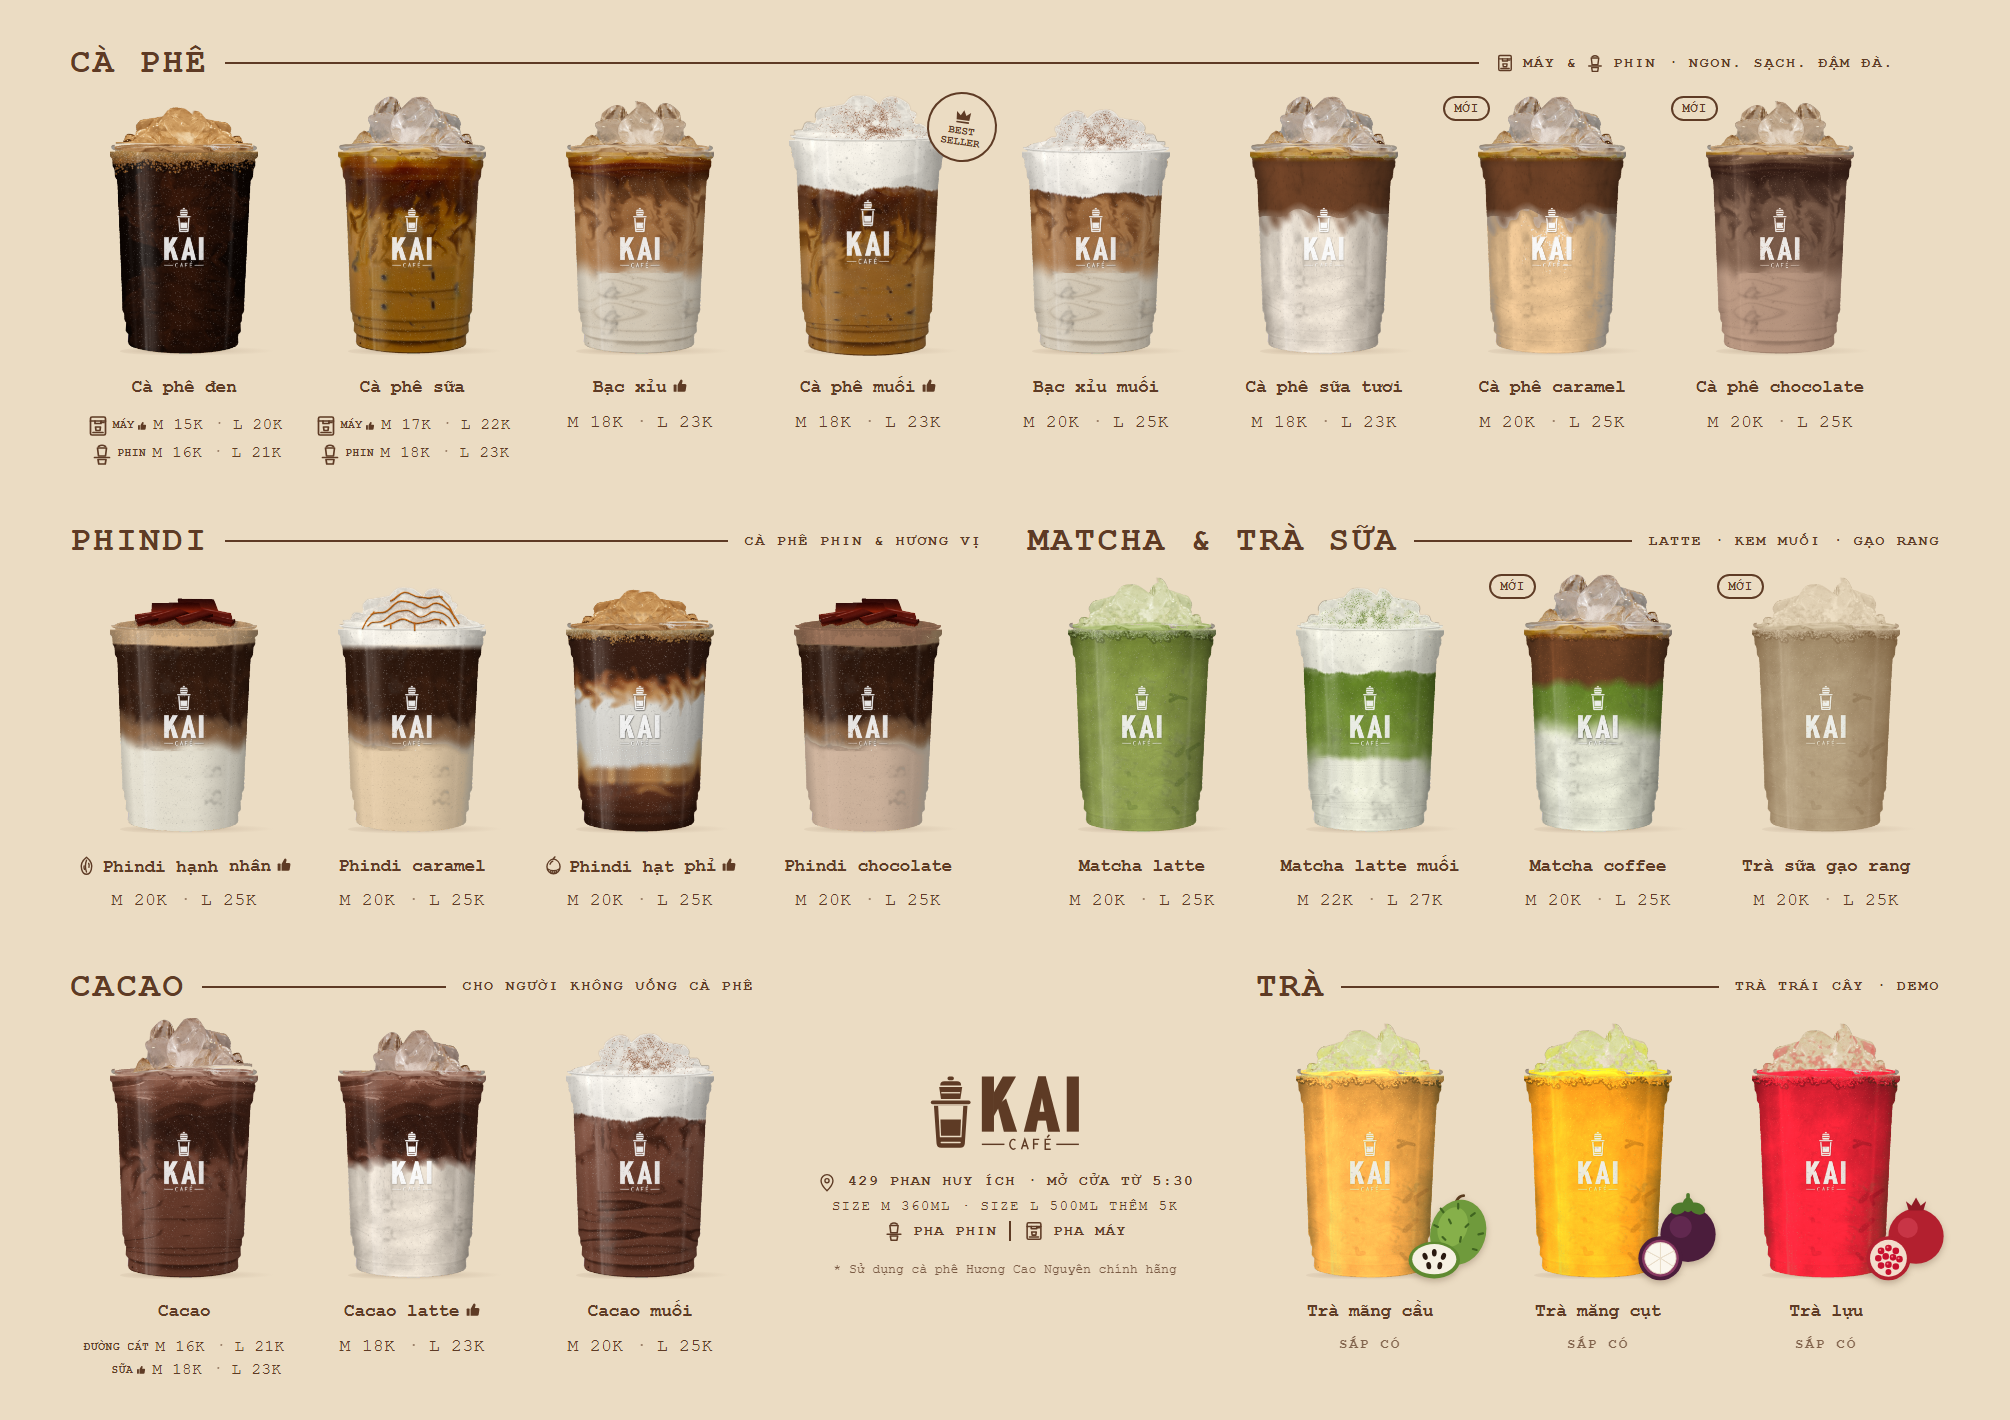
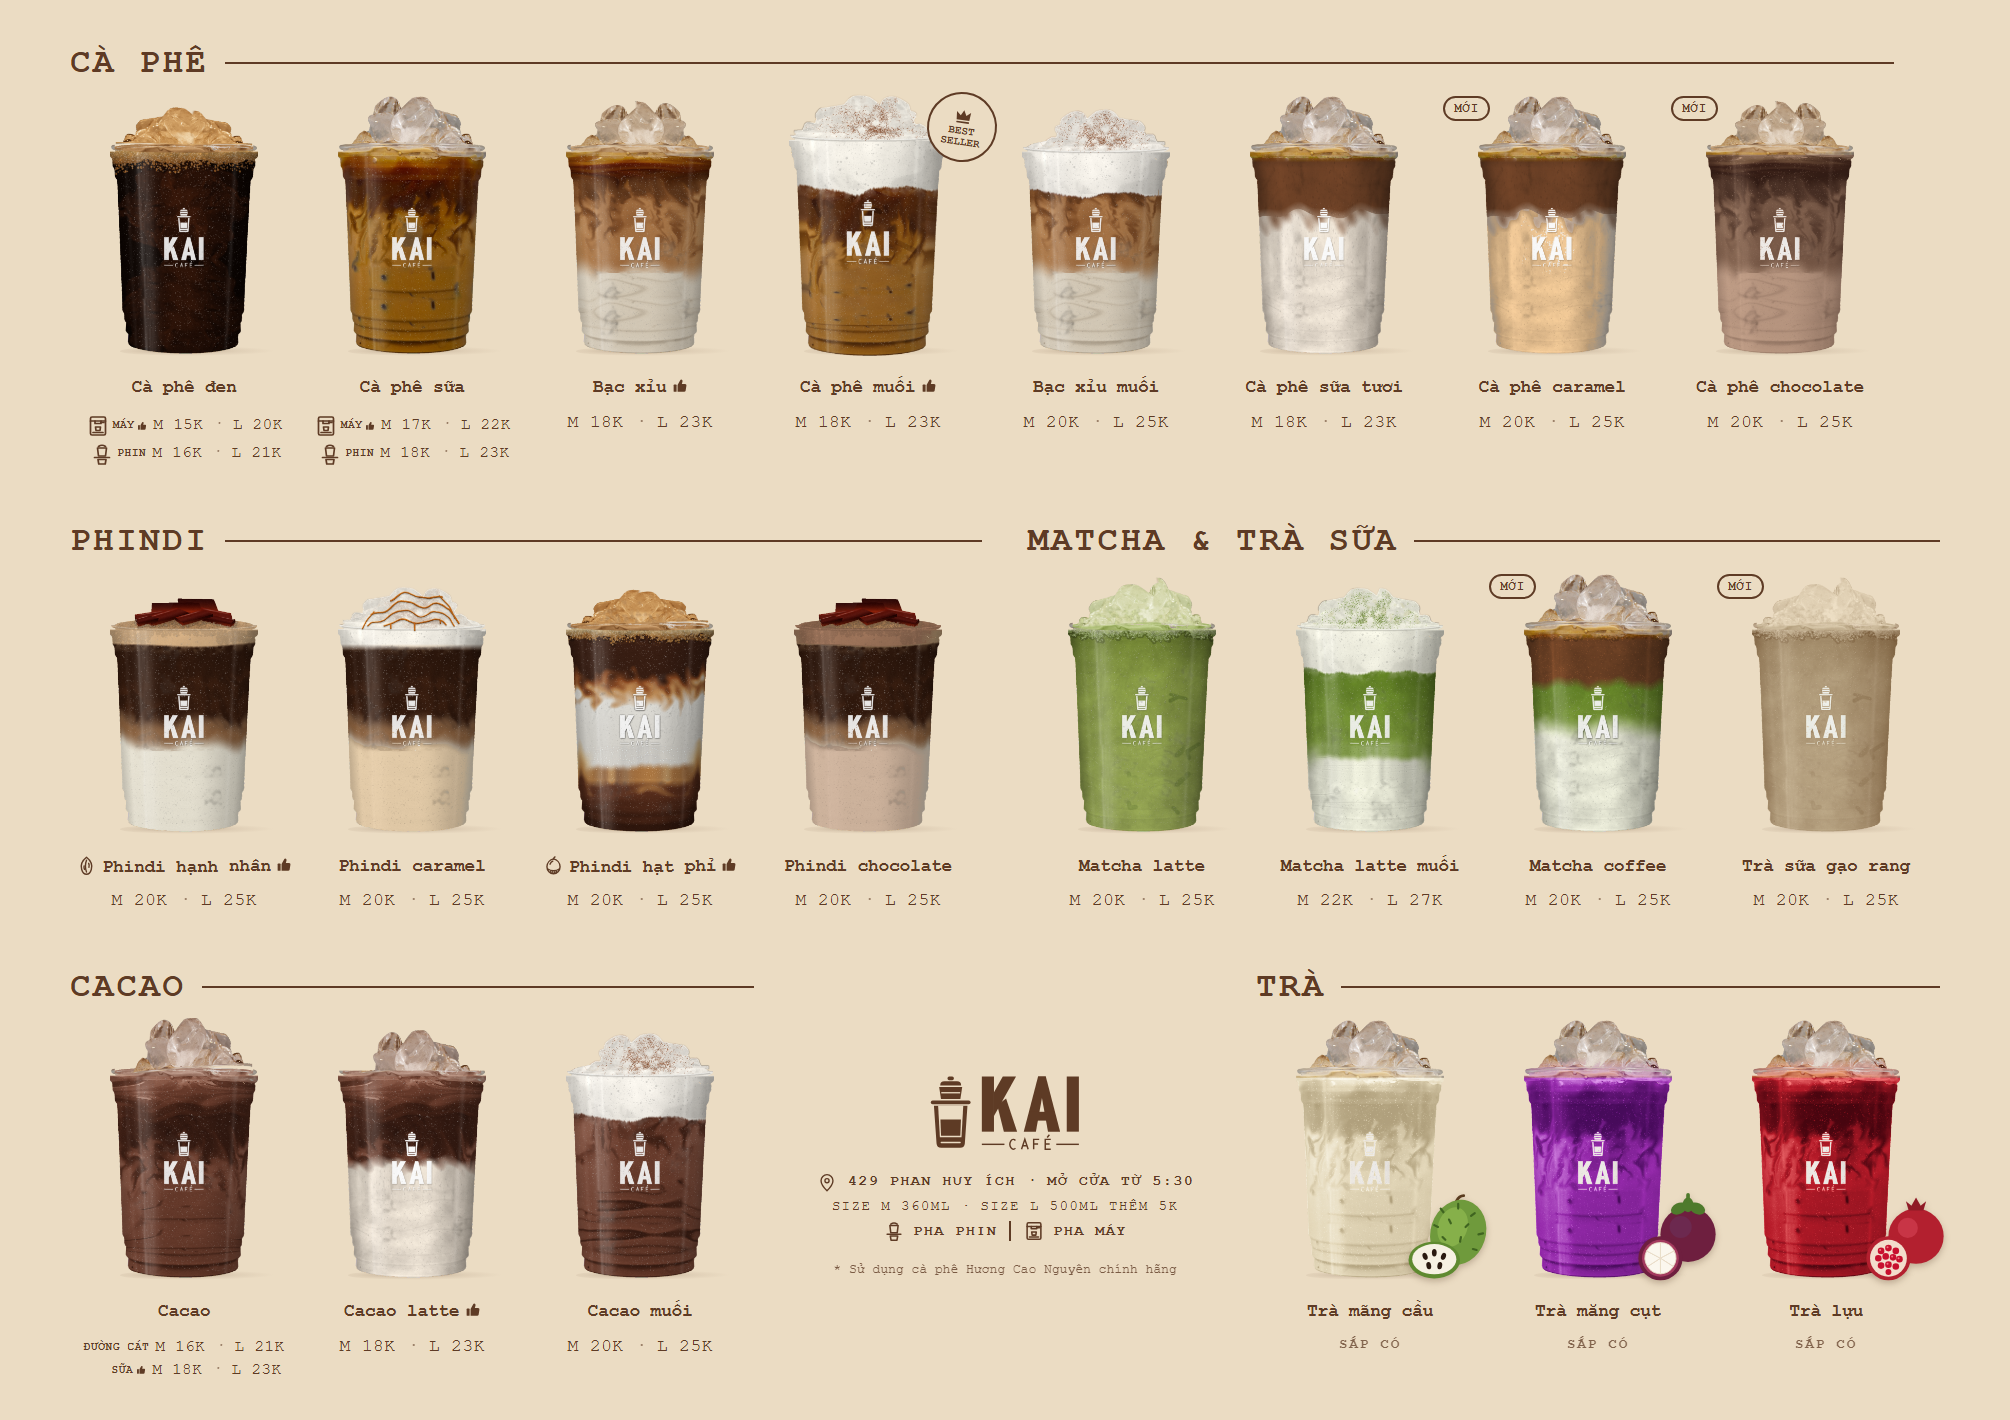
v1.7.321: menu clean bo chu phu, ly tra lam lai theo mau

diff --git a/index.html b/index.html
@@ -3880,7 +3880,7 @@ function renderPlan(){
 
 /* ============ render: KIỂM CHỨNG (định lượng · công thức · dữ liệu cần thêm · tự kiểm) ============
  * Nguyên tắc: (1) "Data sẵn sàng?" trước khi tin số, (2) chỉ kết luận khi đủ mẫu, (3) giả định và điểm mù hiện ra ở UI, (4) tự kiểm bất biến bằng code chạy trên chính data đang xem. */
-const BAN_DASH = 'v1.7.320';   // bump ĐỦ 3 chỗ: hằng này · dòng đầu CHANGELOG · (chip thanh bên và tiêu đề "Có gì mới" tự lấy từ đây); bất biến 19 kiểm điều này
+const BAN_DASH = 'v1.7.321';   // bump ĐỦ 3 chỗ: hằng này · dòng đầu CHANGELOG · (chip thanh bên và tiêu đề "Có gì mới" tự lấy từ đây); bất biến 19 kiểm điều này
 const KIEM_NL = {   // nguồn số đang dùng + độ tin cậy (1 ước tính · 2 Kai chốt · 3 có hoá đơn / ghi trên bao bì) + cách kiểm cho từng nguyên liệu (mã tab Kho)
   cf:{nguon:'Kai chốt 18g = 45ml, 1 kg ≈ 55 ly; giá 240.000 đ/kg (sổ chi ghi 0 đ vì được tặng 5kg → dùng giá tham chiếu)', tin:2, cach:'Cân 5 lần pha thực tế; sau 3 ngày gõ /kiemkho cf so với số ước tính'},
   cfb:{nguon:'Cà phê Phố Núi 1,5 kg · 375.000 đ – chưa có món nào dùng trong công thức', tin:1, cach:'Xác nhận món phin dùng cà phê hạt hay bột rồi điền cột cfb'},
@@ -3938,6 +3938,7 @@ const GLOSS_KAI = [   // định nghĩa & công thức mọi con số quan trọ
   ['Dự báo ngày mai', 'Chỉ lấy ngày cùng loại giá với ngày mai (giá thường / đồng giá 15K; chưa đủ 3 ngày thì bỏ ngày khai trương 10K) · TB các ngày cùng thứ gần nhất (≥ 2 ngày, thiếu thì TB 7 ngày) × hệ số khuyến mãi / mưa khi đủ dữ liệu', 'Đơn bot', 'Hiệu suất'],
 ];
 const CHANGELOG = [   // dòng đầu = bản hiện hành; mỗi bản nhiều ý ngắn · v1.7.176: chỉ giữ ~12 bản mới nhất ở đây, bản cũ hơn nằm ở changelog-cu.json (tải khi mở Kiểm chứng) — quá 20 bản thì chuyển bớt sang file đó (thêm vào ĐẦU mảng json)
+  {v:'v1.7.321', ngay:'22/11/2026', nd:['Tài liệu: Menu bản clean bỏ chữ phụ cạnh tiêu đề nhóm; 3 ly trà demo làm lại từ ly cà phê sữa máy (nước trong, có đá) theo ảnh mẫu — mãng cầu trắng kem, măng cụt tím, lựu đỏ']},
   {v:'v1.7.320', ngay:'22/11/2026', nd:['Tài liệu: Menu bản clean — 3 ly trà demo chỉnh màu theo ảnh mẫu (mãng cầu hổ phách, măng cụt vàng cam, lựu đỏ), thêm hình trái cây mãng cầu / măng cụt / lựu ở góc dưới ly']},
   {v:'v1.7.319', ngay:'22/11/2026', nd:['Tài liệu: Menu bản clean — đường kẻ tiêu đề nhóm nét liền, chữ phụ đậm hơn; dòng giá cà phê đen / sữa có lại chữ máy / phin cạnh icon']},
   {v:'v1.7.318', ngay:'22/11/2026', nd:['Tài liệu: Menu bản clean hàng cuối xếp Cacao │ logo (nhỏ lại) │ khối Trà sát lề phải, thẳng cột với Matcha']},
@@ -5081,7 +5082,7 @@ const TAI_LIEU = [
   {nhom:'Ảnh bìa', ten:'Tối giản · 640 × 700', mo:'Logo giữa, 3 ly, nền be · cỡ ảnh bìa Zalo 640 × 700 (vùng an toàn 640 × 340 ở giữa)', ngay:'08/11/2026', anh:'anh-bia_toi-gian_640x700.png', file:[['Tải ảnh 640 × 700', 'anh-bia_toi-gian_640x700.png']]},
   {nhom:'Ấn phẩm', ten:'Menu cầm tay', mo:'Bản đang dùng · 4 khối Cà phê · Cacao · Phindi · Matcha & trà sữa, có 4 món mới (bán từ 10/11), giá M │ L, nút like món bán chạy · 22/11: thêm icon máy / phin cạnh cà phê đen, sữa và icon hạnh nhân / hạt phỉ như standee, chân menu ghi “mở cửa từ 5:30” · chữ Courier New (PDF in đã chuyển thành hình) · A3 ngang 420 × 297 mm (chưa có lề tràn) · file PDF in: hỏi Marketing (không để trên dashboard)', ngay:'22/11/2026', anh:'menu-cam-tay-icon.png', file:[['Ảnh xem trước', 'menu-cam-tay-icon.png']]},
   {nhom:'Ấn phẩm', ten:'Menu cầm tay · ảnh từng món (nháp)', mo:'Bản 2 chờ chủ duyệt · toàn nền kem, mọi ly cùng cỡ · bố cục 8 · 8 · 3: trái Cà phê │ phải Phindi rồi Matcha & trà sữa │ hàng cuối Cacao + logo, địa chỉ · mỗi món một ảnh ly + nút giá M │ L như standee vòm · cà phê đen / sữa (máy, phin) và cacao (đường cát, sữa) chung một ảnh, mỗi kiểu một dòng giá · ghi “mở cửa từ 5:30” · A3 ngang 420 × 297 mm, chữ đã chuyển thành hình · file PDF in (16 MB): hỏi Marketing (không để trên dashboard)', ngay:'22/11/2026', anh:'menu-anh-tung-mon.png', file:[['Ảnh xem trước', 'menu-anh-tung-mon.png']]},
-  {nhom:'Ấn phẩm', ten:'Menu cầm tay · bản clean (nháp)', mo:'Chờ chủ duyệt · theo mẫu menu tablet: ly nhỏ cùng cỡ xếp thoáng, tiêu đề nhóm nhỏ + đường kẻ liền, giá chữ trơn M · L (không nút) · nền kem như menu cầm tay · 3 hàng: Cà phê (8) │ Phindi + Matcha & trà sữa (8) │ Cacao · logo, địa chỉ · Trà sát phải (demo: mãng cầu, măng cụt, lựu — ảnh đổi màu, chưa giá) · A3 ngang 420 × 297 mm, chữ đã chuyển thành hình · file PDF in (16 MB): hỏi Marketing (không để trên dashboard)', ngay:'22/11/2026', anh:'menu-clean.png', file:[['Ảnh xem trước', 'menu-clean.png']]},
+  {nhom:'Ấn phẩm', ten:'Menu cầm tay · bản clean (nháp)', mo:'Chờ chủ duyệt · theo mẫu menu tablet: ly nhỏ cùng cỡ xếp thoáng, tiêu đề nhóm nhỏ + đường kẻ liền, không chữ phụ, giá chữ trơn M · L (không nút) · nền kem như menu cầm tay · 3 hàng: Cà phê (8) │ Phindi + Matcha & trà sữa (8) │ Cacao · logo, địa chỉ · Trà sát phải (demo: mãng cầu, măng cụt, lựu — ảnh đổi màu, chưa giá) · A3 ngang 420 × 297 mm, chữ đã chuyển thành hình · file PDF in (16 MB): hỏi Marketing (không để trên dashboard)', ngay:'22/11/2026', anh:'menu-clean.png', file:[['Ảnh xem trước', 'menu-clean.png']]},
   {nhom:'Ấn phẩm', ten:'Standee vòm ảnh thật · đã dán sticker', mo:'Standee cắt vòm 59,8 × 101,4 cm, giá chỉ từ 15K · dán 3 sticker Ø 10 cm: +5K size lớn (trái nhãn 15K), mua 5 tặng 1 (phải nhãn 15K), thân thiết −2K (cạnh BEST SELLER) · mở cửa 5:30 – 10:30 · file in có lề 3 mm, chữ đã phá nét (08/11) · gửi nhà in kèm file đường cắt + ghi chú · file PDF in: hỏi Marketing (không để trên dashboard)', ngay:'08/11/2026', anh:'standee-vom_dan-3-sticker.png', file:[['Ảnh đã dán sticker', 'standee-vom_dan-3-sticker.png'], ['PDF đường cắt vòm', 'standee-vom_duong-cat_598x1014mm.pdf'], ['Ghi chú gửi nhà in', 'standee-vom_ghi-chu-nha-in.txt'], ['Ảnh standee chưa dán', 'standee-vom.png'], ['PDF A4 bộ dán standee (3 loại)', 'sticker-tron_A4_bo-dan-standee.pdf']]},
   {nhom:'Ấn phẩm', ten:'Bảng món mới A3', mo:'Bán từ 10/11 · 4 món mới: Cà phê caramel · Cà phê chocolate · Matcha coffee · Trà sữa gạo rang + Phindi caramel · Phindi chocolate (chưa có trên standee vòm) · cả 6 món M 20K │ L 25K · A3 ngang 420 × 297 mm · ảnh ly món mới là ảnh ghép, chưa phải ảnh chụp · file PDF in: hỏi Marketing (không để trên dashboard)', ngay:'09/11/2026', anh:'bang-mon-moi_A3.png', file:[['Ảnh xem trước', 'bang-mon-moi_A3.png']]},
   {nhom:'Ấn phẩm', ten:'Công thức size M │ L có ảnh món', mo:'Mỗi món một thẻ: ảnh ly + định lượng M 360 ml │ L 500 ml · 4 nhóm Cà phê · Cacao · Phindi · Matcha & trà sữa (món muối nằm trong nhóm gốc) · in A3 dán xe · file PDF in: hỏi Marketing (không để trên dashboard)', ngay:'12/11/2026', anh:'cong-thuc-M-L-co-anh.png', file:[['Ảnh xem trước', 'cong-thuc-M-L-co-anh.png']]},
